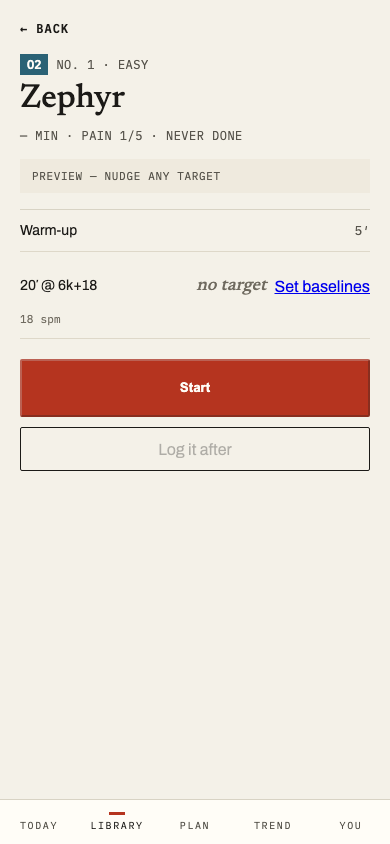
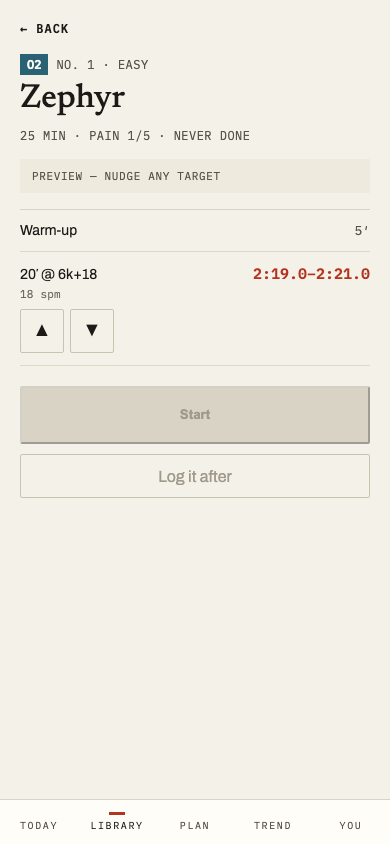
fix: capture screenshots with baselines set; style disabled buttons
Claude-Session: https://claude.ai/code/session_01UEXqdgDid4Qjd8D5uoRZ3H

diff --git a/app/e2e/screenshots.spec.ts b/app/e2e/screenshots.spec.ts
@@ -1,4 +1,5 @@
 import path from "node:path";
+import type { Page } from "@playwright/test";
 import { test } from "@playwright/test";
 import { signInViaBackdoor } from "./helpers";
 
@@ -7,6 +8,36 @@ import { signInViaBackdoor } from "./helpers";
 // docs/superpowers/specs/2026-07-28-testing-validation-design.md). Run via
 // `pnpm screenshots` (scripts/screenshots.sh), never as part of `pnpm e2e`.
 const SCREENSHOTS_DIR = path.resolve(process.cwd(), "../docs/screenshots");
+
+// The handoff's own reference values, so captured targets/durations match
+// what the design docs describe.
+const SCREENSHOT_BASELINES = { k2Seconds: 112.0, k6Seconds: 122.0 };
+
+/**
+ * Sets baselines for the signed-in user so screenshots show the product's
+ * real numbers (durations, resolved target ranges) instead of the
+ * no-baselines fallback ("—" / "no target"). Driven via an in-page fetch
+ * (real Chromium networking), not `page.request`: the api container runs
+ * with NODE_ENV=production, so the session cookie is Set-Cookie'd with
+ * `Secure` — Chromium exempts http://127.0.0.1 from that (the loopback
+ * "potentially trustworthy origin" carve-out), but Playwright's Node-side
+ * APIRequestContext does not, so `page.request.put` 401s here even though
+ * the identical request from the loaded page succeeds. Mirrors the reset
+ * helper in library.spec.ts's baseline-propagation describe block.
+ */
+async function setBaselines(page: Page): Promise<void> {
+  const result = await page.evaluate(async (patch) => {
+    const res = await fetch("/api/baselines", {
+      method: "PUT",
+      headers: { "Content-Type": "application/json" },
+      body: JSON.stringify(patch),
+    });
+    return { ok: res.ok, status: res.status, body: await res.text() };
+  }, SCREENSHOT_BASELINES);
+  if (!result.ok) {
+    throw new Error(`baseline setup failed: ${result.status} ${result.body}`);
+  }
+}
 
 test("signin", async ({ page }) => {
   await page.goto("/");
@@ -33,6 +64,7 @@ test("library", async ({ page }) => {
     email: "screenshots-library@e2e.test",
     name: "Screenshot Tester",
   });
+  await setBaselines(page);
   await page.goto("/library");
   // Library shows "LOADING…" until the workouts/baselines fetches resolve;
   // page.goto only waits for the navigation's load event, not that — wait
@@ -48,6 +80,7 @@ test("workout-detail", async ({ page }) => {
     email: "screenshots-detail@e2e.test",
     name: "Screenshot Tester",
   });
+  await setBaselines(page);
   await page.goto("/library");
   await page.locator(".workout-row").first().click();
   await page.locator(".workout-detail-title").waitFor();

diff --git a/app/src/index.css b/app/src/index.css
@@ -72,6 +72,25 @@ main {
   cursor: pointer;
 }
 
+/* Disabled controls read as present-but-inactive: ink-5 is the handoff's
+   "completed/disabled text" token, rule/rule-3 keep borders/fills neutral
+   instead of the accent color a still-enabled control would use. Scoped to
+   :disabled (not a one-off class) so any button in this state — not just
+   the workout-detail Start/Log it after pair — picks this up automatically. */
+button:disabled {
+  cursor: not-allowed;
+  color: var(--ink-5);
+}
+
+.button-primary:disabled,
+.button-primary:disabled:hover {
+  background: var(--rule);
+}
+
+.button-outline:disabled {
+  border-color: var(--rule-3);
+}
+
 .you {
   display: flex;
   align-items: center;
